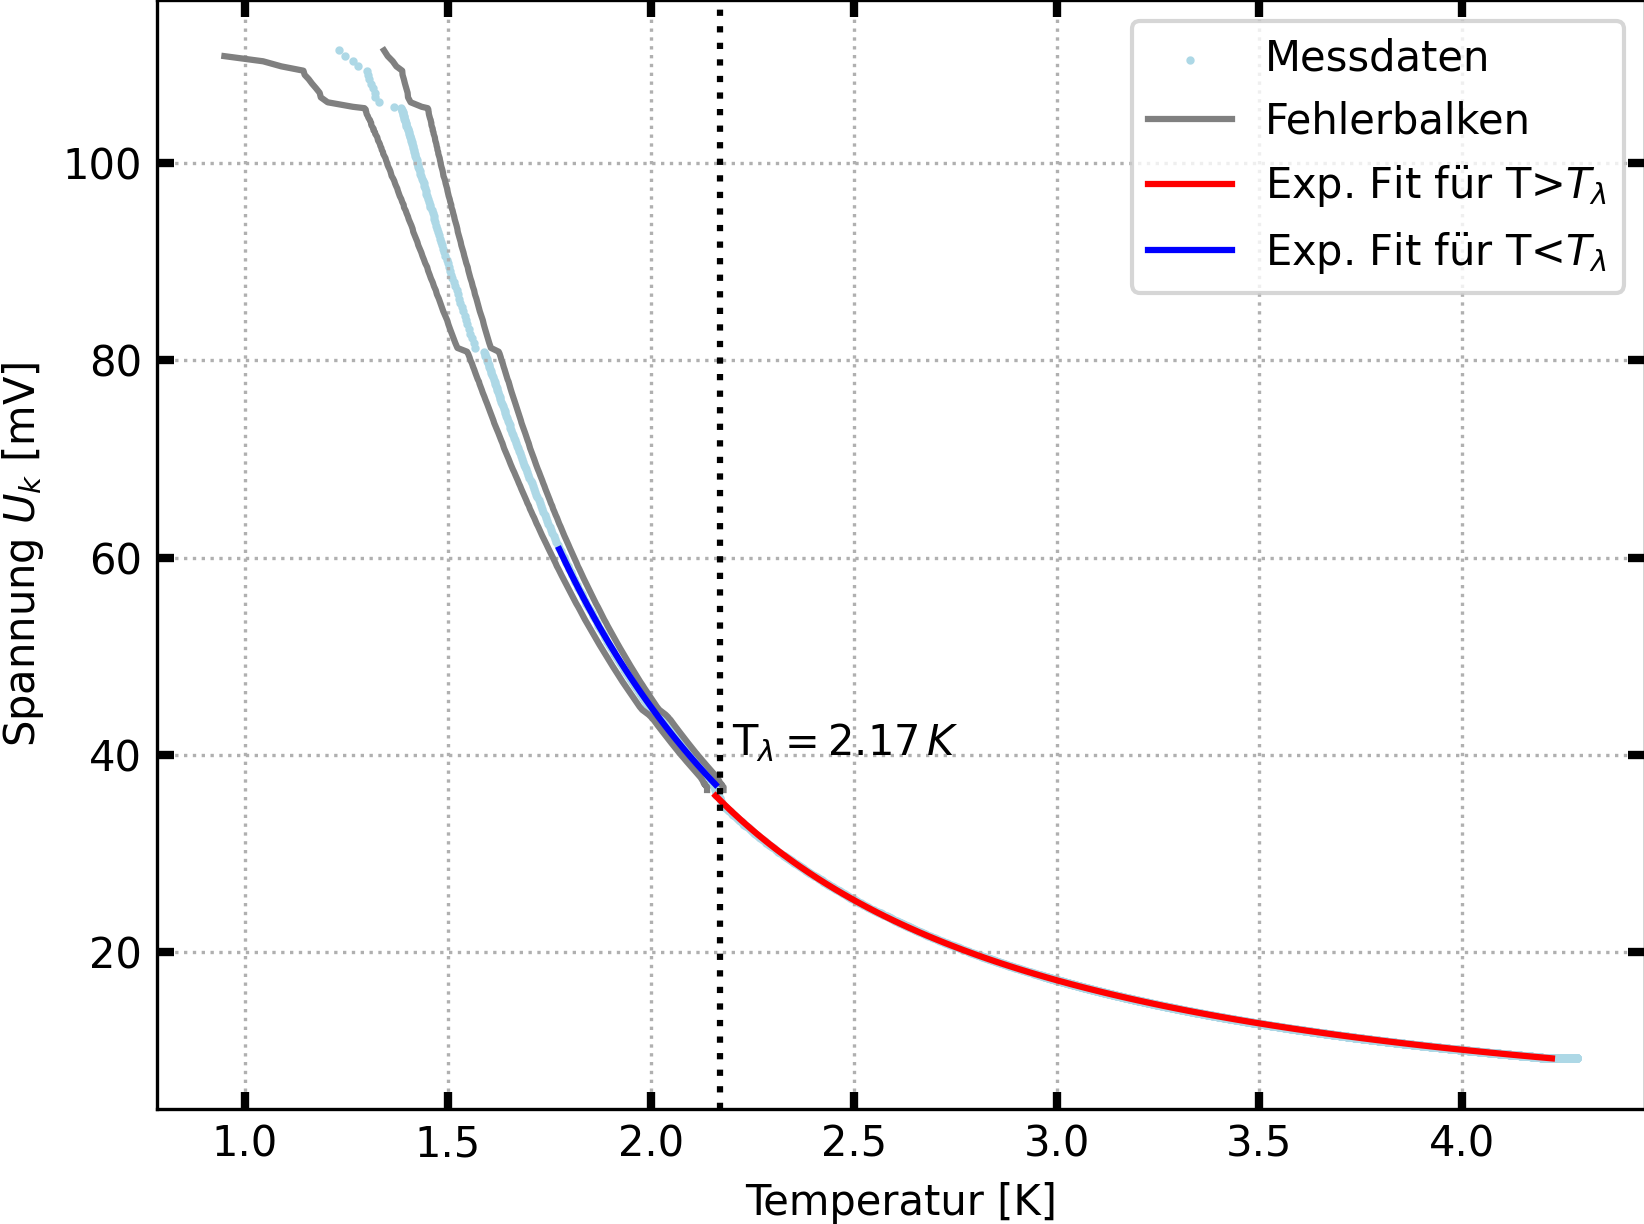
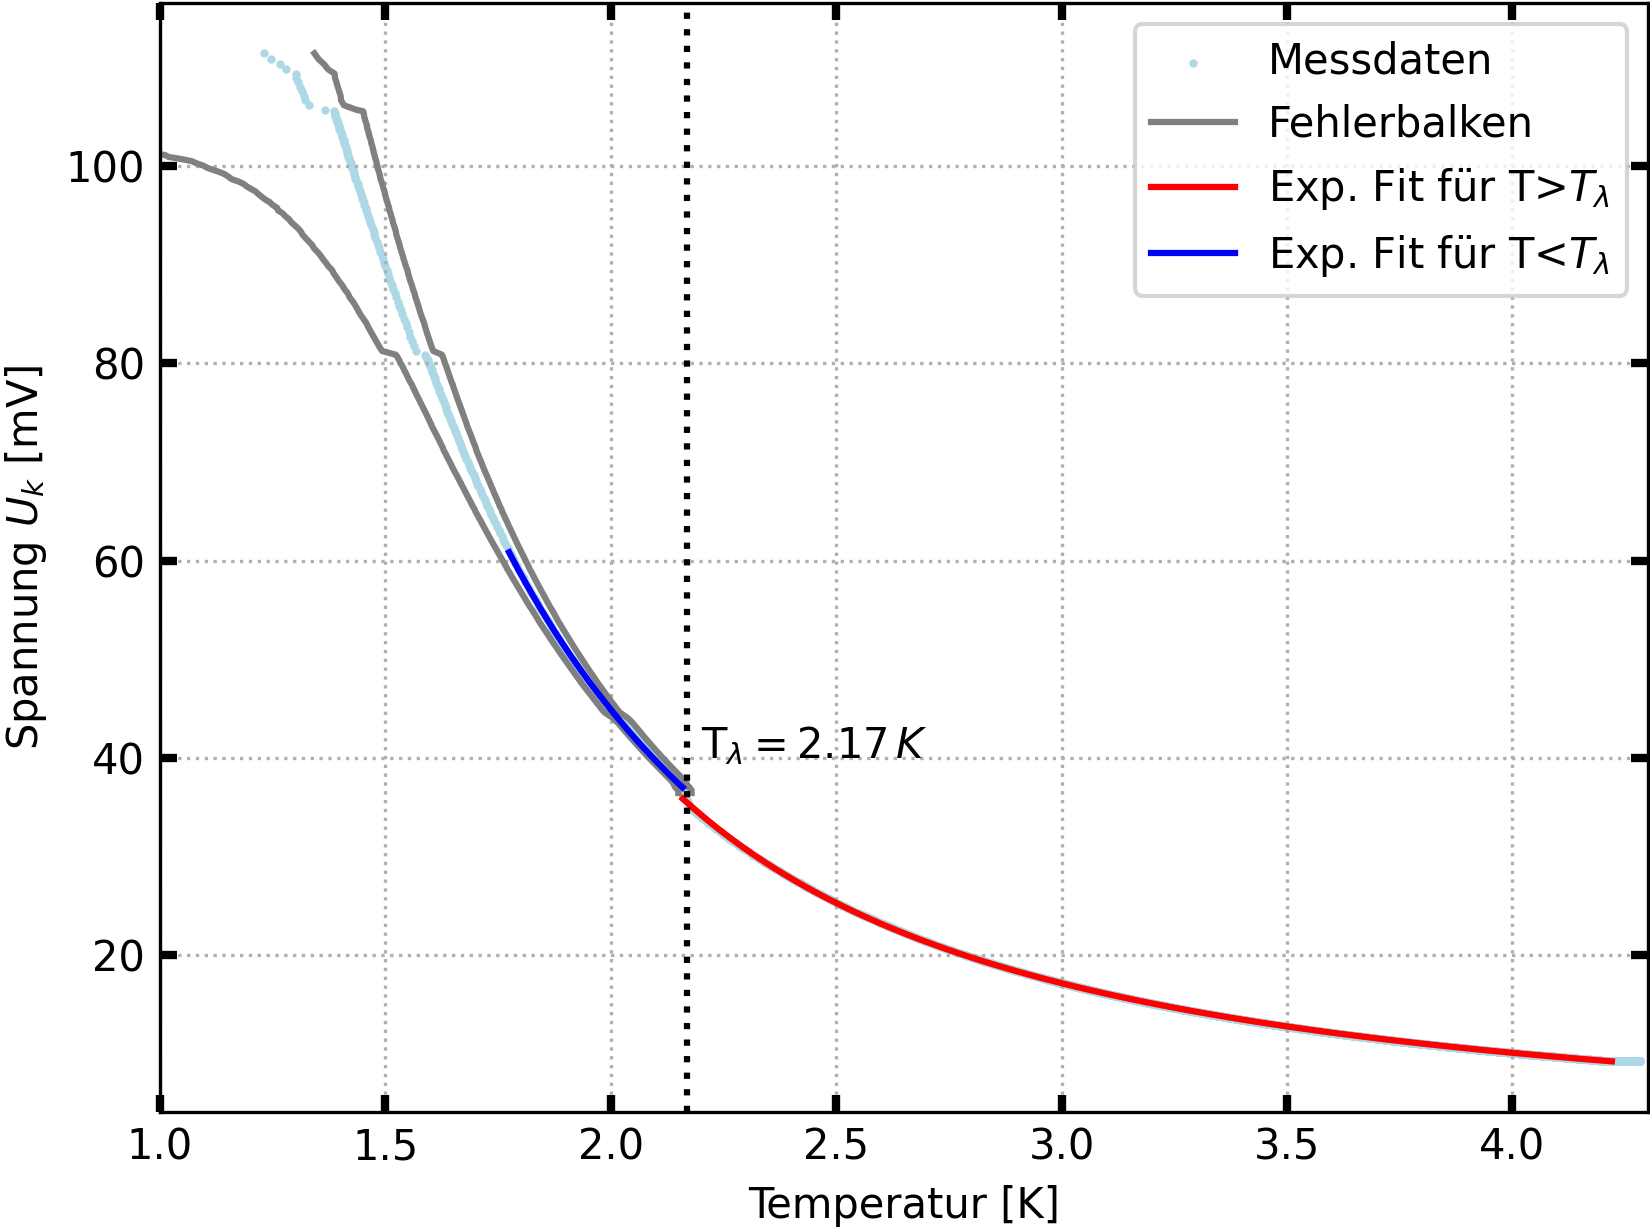
Corrections done to the SC-Paper. Now the errors should look like Stehno wants it

diff --git a/Superconductivity/Supercond_Script.py b/Superconductivity/Supercond_Script.py
@@ -52,17 +52,20 @@ errors = np.sqrt(np.diag(covariance))
 m_error, b_error = errors  # Error in slope and intercept
 
 # Generate fitted values
-x_fit_volts = np.linspace(min(x_data_volts), max(x_data_volts), 100)
+x_fit_volts = np.linspace(0, 1.2, 100)
 y_fit_mbar = linear_func(x_fit_volts, m, b)
 
 # Plot data and fitted line
-#plt.scatter(x_data_volts, y_data_mbar, label='Data', color='red')
-#plt.plot(x_fit_volts, y_fit_mbar, label=f'Fit: P = {m:.2e} * V + {b:.2e}', color='blue')
-#plt.xlabel('Voltage (V)')
-#plt.ylabel('Pressure (mBar)')
-#plt.legend()
-#plt.title('Linear Fit: Voltage vs. Pressure')
-#plt.show()
+plt.scatter(x_data_volts, y_data_mbar, label=r'Gemessene P-U$_P$ Paare', color='red')
+plt.plot(x_fit_volts, y_fit_mbar, label=r'Fit: P = 1051.10 $\cdot$U$_p$ -0.98', color='blue')
+plt.xlim(0,1.2)
+plt.ylim(0,1200)
+plt.xlabel(r'Spennung U$_p$ [V]')
+plt.ylabel(r'Druck [mBar]')
+plt.legend()
+plt.grid()
+plt.savefig("out/Manometer.png", dpi=300, bbox_inches='tight', pad_inches=0.0)
+plt.show()
 
 # Print fitted parameters and their errors
 #print(f"Fitted parameters and errors:")
@@ -93,7 +96,7 @@ temperatureError_above_below = pressure_to_temperature(pressureErrors_above_belo
 pressureErrors_below = linearDependence(col3[LambdaPointidx:]) + linearDependence(col3[LambdaPointidx:])*0.03 + 1
 temperatureErrors_below = pressure_to_temperature(pressureErrors_below,False)
 
-pressureErrors_below_below = linearDependence(col3[LambdaPointidx:]) - linearDependence(col3[LambdaPointidx:])*0.03 - 1
+pressureErrors_below_below = linearDependence(col3[LambdaPointidx:]) - 6/linearDependence(col3[LambdaPointidx:]) - 1
 temperatureErrors_below_below = pressure_to_temperature(pressureErrors_below_below,False)
 
 def expoFit(x,U0,C,d):
@@ -127,7 +130,7 @@ U0ErrBelowBelow,CErrBelowBelow,dErrBelowBelow = errorBelowParamsBelow
 print(expoParamsAbove,errorAboveParams-expoParamsAbove,expoParamsAbove-errorAboveParamsBelow)
 print(expoParamsBelow,errorBelowParams-expoParamsBelow,expoParamsBelow-errorBelowParamsBelow)
 plt.scatter(tempForPlot[:],col4[:],color='lightblue',s=1,label='Messdaten')
-plt.plot(temperatureErrors_below_below[:-1],col4[LambdaPointidx:-1],color='grey')
+plt.plot(temperatureErrors_below_below[:-40],col4[LambdaPointidx:-40],color='grey')
 plt.plot(temperatureErrors_below,col4[LambdaPointidx:],color='grey',label='Fehlerbalken')
 
 
@@ -140,17 +143,16 @@ plt.plot(xb,expoFit(xb,U0Bel,CBel,dBel),color='blue',label='Exp. Fit für T<$T_\
 plt.gca().yaxis.set_major_formatter(ticker.FuncFormatter(lambda x, _: f"{x * 1000:.0f}"))
 plt.ylabel("Spannung $U_k$ [mV]")
 plt.xlabel("Temperatur [K]")
+plt.xlim(1.0,4.3)
 plt.tick_params(axis='both', which='both', direction='in', length=4, width=2,
                top=True, bottom=True, left=True, right=True)
 plt.axvline(x=2.17,linestyle='dotted',color='black')
 plt.text(2.2,0.04,'T$_\lambda=2.17\,K$')
 plt.grid(linestyle='dotted')
 plt.legend()
-plt.savefig("out/Calibration.png", dpi=300, bbox_inches='tight', pad_inches=0.0)
+plt.savefig("out/Calibration.png", dpi=300, bbox_inches='tight', pad_inches=0.01)
 plt.show()
-#U0=0.00432
-#C=4.84
-#d=-0.00434
+
 
 def AllanBradleyToTemp(U,isAboveLambda):
     if isAboveLambda:

diff --git a/Superconductivity/CriticalTemperature.py b/Superconductivity/CriticalTemperature.py
@@ -25,8 +25,9 @@ maxVal = voltage[750:].max()
 minVal = voltage[750]
 readingVal = (maxVal+minVal)/2
 
+fig,ax = plt.subplots()
 def plotErrorBars(rangelow,rangehigh):
-    plt.plot(AllanBradleyToTemp(AllanBradley[rangelow:rangehigh],True)[0],voltage[rangelow:rangehigh])
+    plt.plot(AllanBradleyToTemp(AllanBradley[rangelow:rangehigh],True)[0],voltage[rangelow:rangehigh],label='Messwerte')
     #plt.scatter(AllanBradleyToTemp(AllanBradley[750:1300],True)[0]+AllanBradleyToTemp(AllanBradley[750:1300],True)[1],voltage[750:1300])
     #plt.scatter(AllanBradleyToTemp(AllanBradley[750:1300],True)[0]-AllanBradleyToTemp(AllanBradley[750:1300],True)[2],voltage[750:1300])
     xRight = AllanBradleyToTemp(AllanBradley[rangelow:rangehigh],True)[0]+AllanBradleyToTemp(AllanBradley[rangelow:rangehigh],True)[1]
@@ -50,12 +51,15 @@ def plotErrorBars(rangelow,rangehigh):
 
 plotErrorBars(750,1300)
 plotErrorBars(1500,-1)
-plt.plot(AllanBradleyToTemp(AllanBradley[1300:1500],True)[0],voltage[1300:1500],label='Messwerte')
+plt.errorbar(AllanBradleyToTemp(AllanBradley[1300:1500:3],True)[0],voltage[1300:1500:3],voltage[1300:1500:3]*0.05+0.000002,0,label='U$_{Probe}$-Fehlerbehaftete\n Messwerte',zorder=0)
 #plt.errorbar(AllanBradleyToTemp(AllanBradley[1500:],True)[0],voltage[1500:],xerr=AllanBradleyToTemp(AllanBradley[1500:],True)[1],yerr=0)
 plt.xlim(3.657,3.825)
 
-
-plt.gca().yaxis.set_major_formatter(ticker.FuncFormatter(lambda x, _: f"{x * 100000:.0f}"))
+#plt.gca().yaxis.set_major_formatter(ticker.FuncFormatter(lambda x, _: f"{x * 100:.0}"))
+ticks = [0.00008,0.00010,0.00012,0.00014,0.00016,0.00018]
+ax.set_yticks(ticks)
+labels = ["0.08","0.10","0.12","0.14","0.16","0.18"]
+ax.set_yticklabels(labels)
 plt.tick_params(axis='both', which='both', direction='in', length=4, width=2,
                top=True, bottom=True, left=True, right=True)
 plt.axhline((maxVal+minVal)/2,0.2,0.7,color='black')
@@ -66,7 +70,7 @@ plt.text(3.7315,0.000072,'T$_c=3.731$')
 plt.text(3.769,readingVal+readingVal*0.01,'Mittlere Ausgleichsgerade',size=7)
 plt.grid(linestyle='dotted')
 plt.xlabel('Temperatur [K]')
-plt.ylabel('Spannnung $U_{Probe}\,[10\, \mu V]$')
+plt.ylabel('Spannnung $U_{Probe}\,[\mu V]$')
 plt.savefig("out/DirectMeasurement.png", dpi=300, bbox_inches='tight', pad_inches=0.00)
 #plt.show()
 ValueList = []
@@ -88,10 +92,8 @@ for idx,e in enumerate(AllanBradleyToTemp(AllanBradley[750:],True)[0]):
     if np.abs(e-np.mean(manuallPoints))<=0.00005:print(e,idx)
 print(AllanBradleyToTemp(AllanBradley[1755+750],True)[0],AllanBradleyToTemp(AllanBradley[1755+750],True)[1],AllanBradleyToTemp(AllanBradley[1755+750],True)[2])
 
-plt.legend()
-plt.savefig("out/TCrit.png", dpi=300, bbox_inches='tight', pad_inches=0.05)
+plt.legend(loc='lower right', fontsize='small')
+plt.savefig("out/TCrit.png", dpi=300, bbox_inches='tight', pad_inches=0.01)
 plt.show()
-
-
 
 

diff --git a/Superconductivity/TemperatureCalibration.py b/Superconductivity/TemperatureCalibration.py
@@ -44,3 +44,6 @@ def pressure_to_temperature(pressure_mbar, above_threshold):
             temperature_k += A_coeffs_low[i] * log_term_low ** i
 
     return temperature_k
+
+print(pressure_to_temperature(3,False))
+print(pressure_to_temperature(3-3*0.03 -1,False))

diff --git a/Superconductivity/CriticalField.py b/Superconductivity/CriticalField.py
@@ -52,8 +52,6 @@ avgtl = AllanBradleyToTemp(AllanBradley[181], True)[2]
 
 
 
-
-
 #Import manual gathered data
 file_path = "critfield.dat"
 
